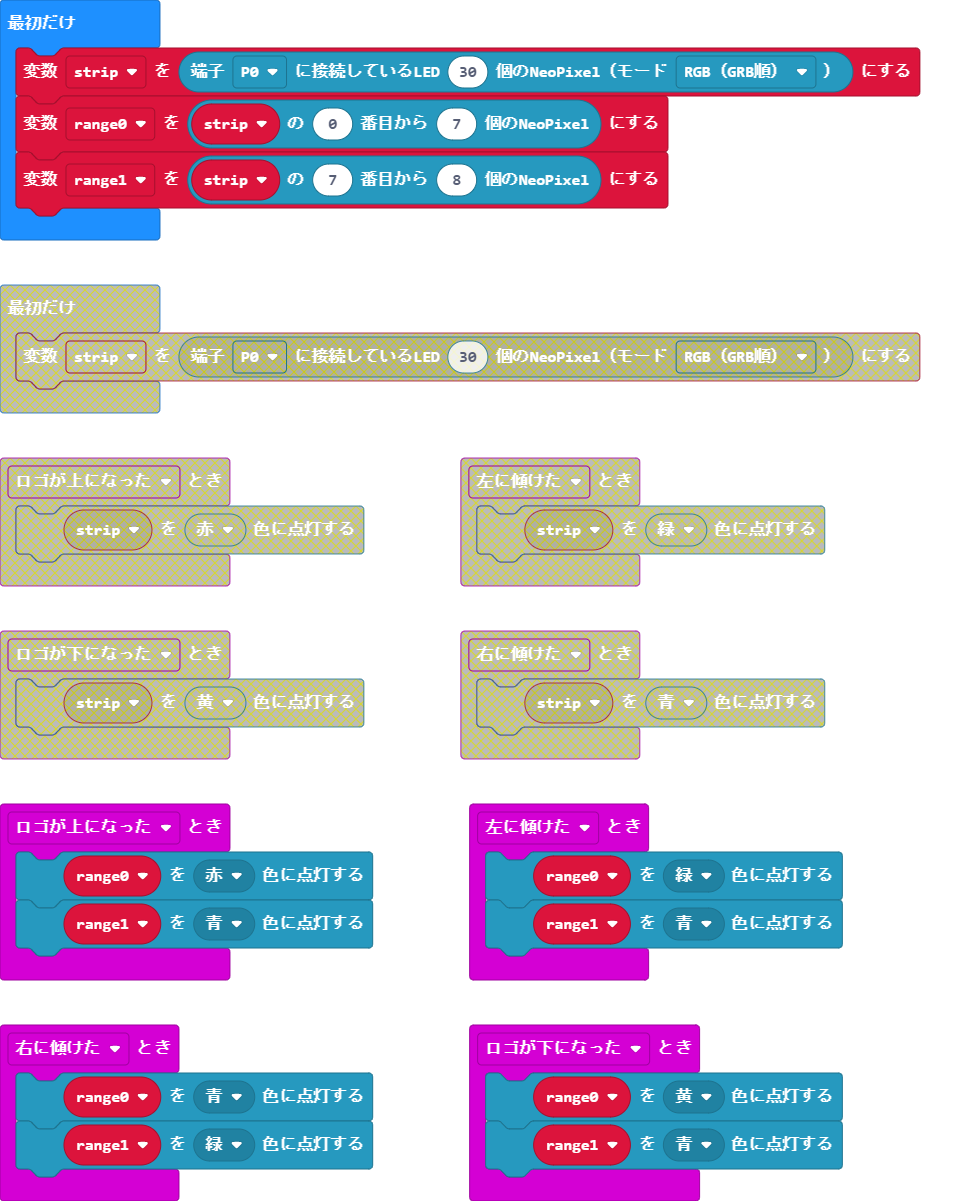
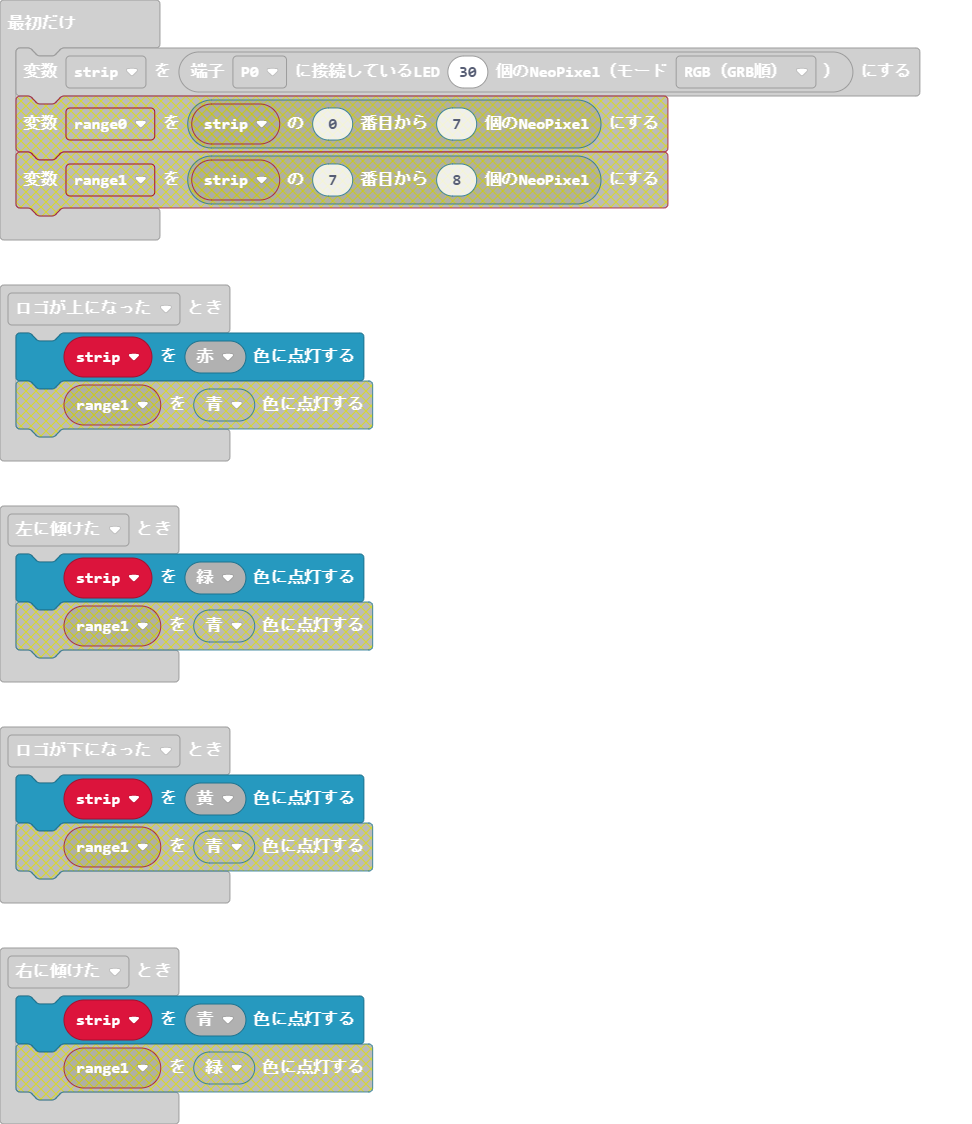
ベーシックな形

diff --git a/main.ts b/main.ts
@@ -1,21 +1,14 @@
 input.onGesture(Gesture.TiltRight, function () {
-    range0.showColor(neopixel.colors(NeoPixelColors.Blue))
-    range1.showColor(neopixel.colors(NeoPixelColors.Green))
+    strip.showColor(neopixel.colors(NeoPixelColors.Blue))
 })
 input.onGesture(Gesture.TiltLeft, function () {
-    range0.showColor(neopixel.colors(NeoPixelColors.Green))
-    range1.showColor(neopixel.colors(NeoPixelColors.Blue))
+    strip.showColor(neopixel.colors(NeoPixelColors.Green))
 })
 input.onGesture(Gesture.LogoUp, function () {
-    range0.showColor(neopixel.colors(NeoPixelColors.Red))
-    range1.showColor(neopixel.colors(NeoPixelColors.Blue))
+    strip.showColor(neopixel.colors(NeoPixelColors.Red))
 })
 input.onGesture(Gesture.LogoDown, function () {
-    range0.showColor(neopixel.colors(NeoPixelColors.Yellow))
-    range1.showColor(neopixel.colors(NeoPixelColors.Blue))
+    strip.showColor(neopixel.colors(NeoPixelColors.Yellow))
 })
-let range1: neopixel.Strip = null
-let range0: neopixel.Strip = null
-let strip = neopixel.create(DigitalPin.P0, 30, NeoPixelMode.RGB)
-range0 = strip.range(0, 7)
-range1 = strip.range(7, 8)
+let strip: neopixel.Strip = null
+strip = neopixel.create(DigitalPin.P0, 30, NeoPixelMode.RGB)
